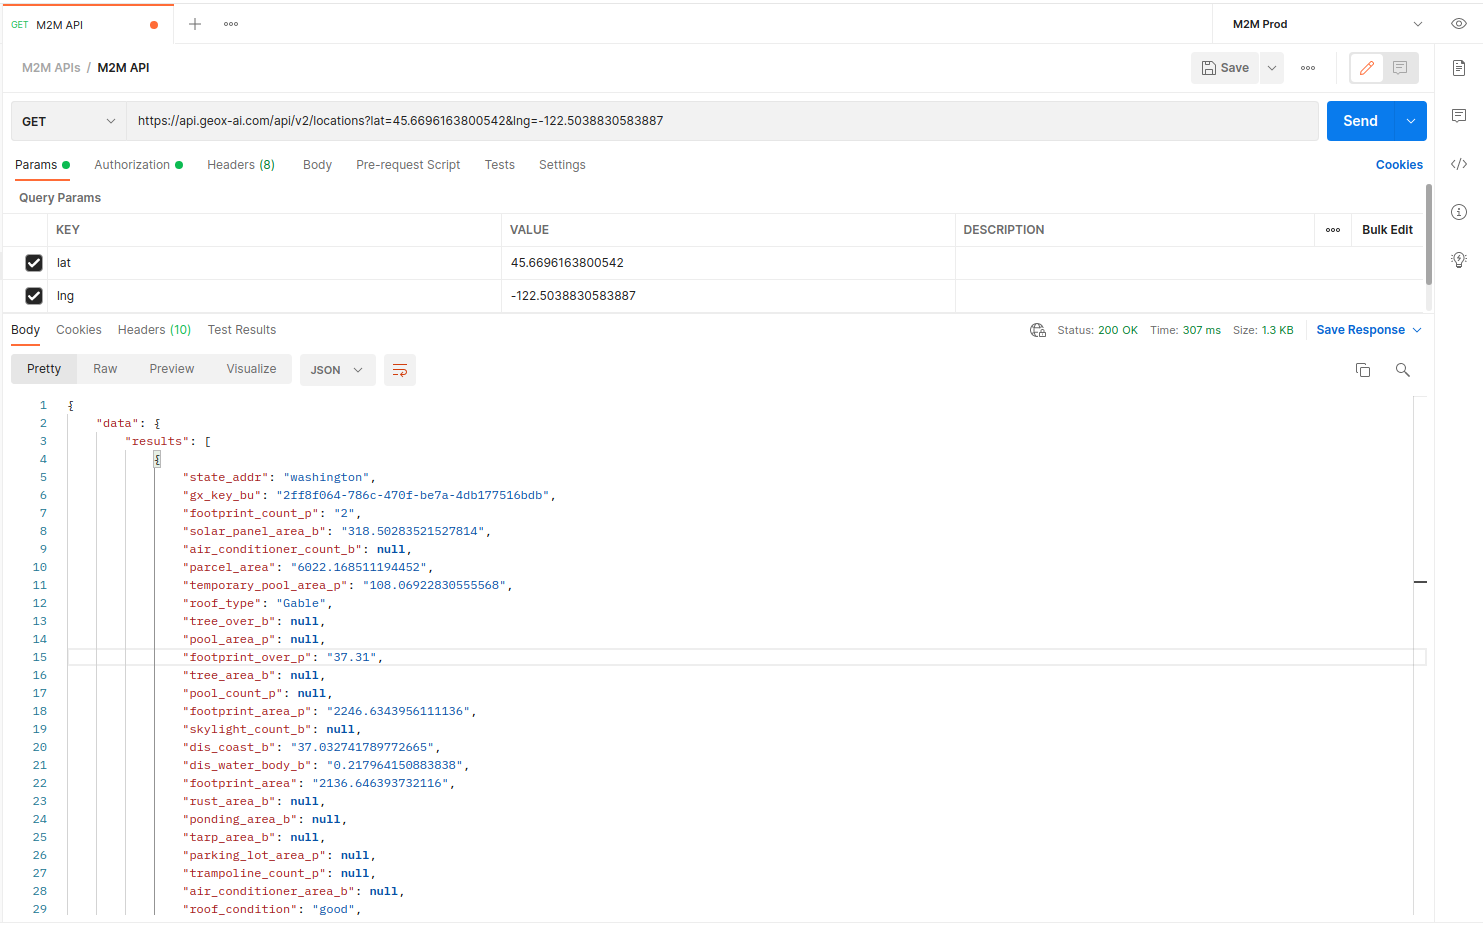
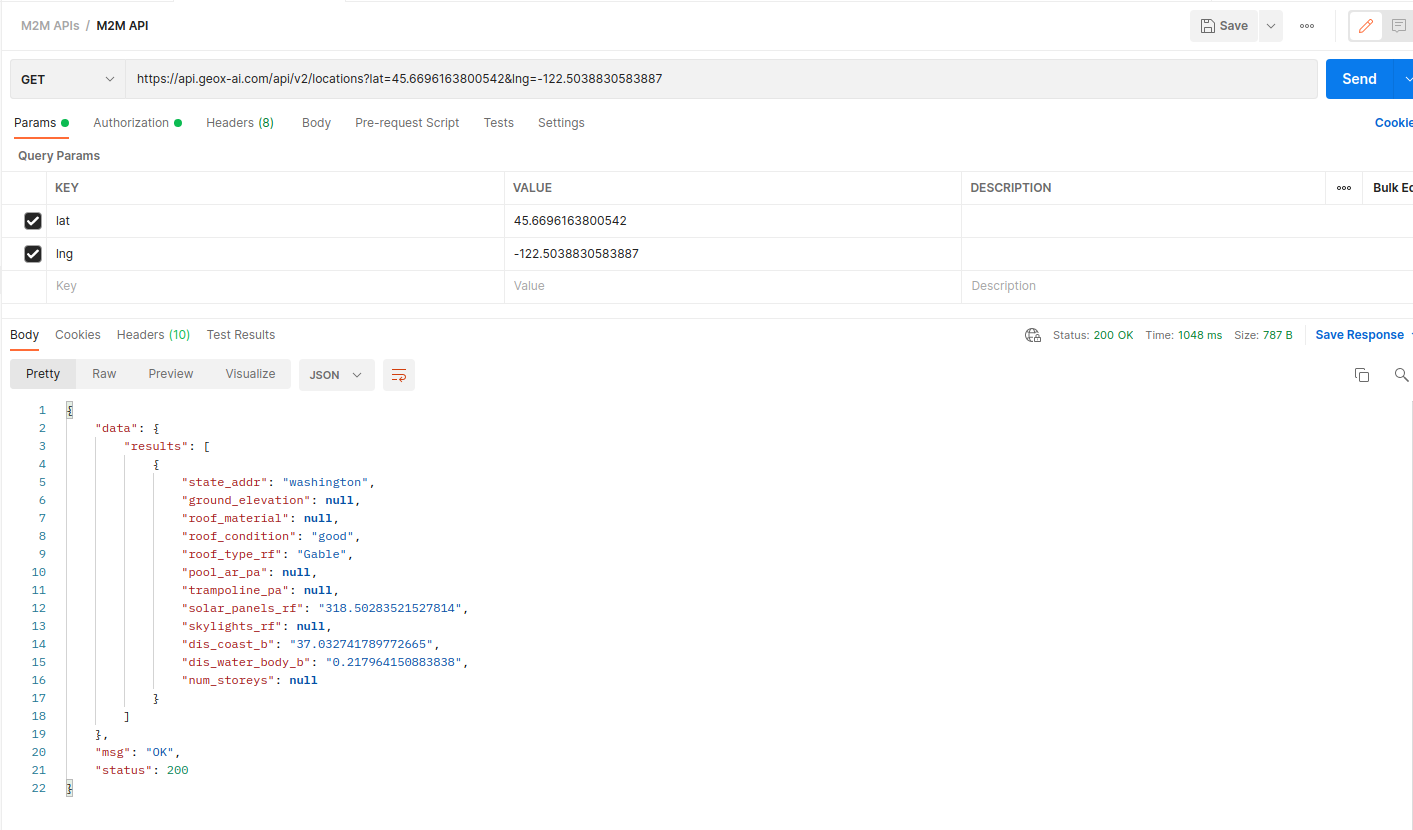
Updated docs

diff --git a/README.md b/README.md
@@ -113,7 +113,7 @@ Here are the sample request and response
 
 ## Request Sample
 ```shell
-https://api.geox-ai.com/poc/api/?lat=32.866004&lng=-96.652901
+https://api.geox-ai.com/api/v2/locations?lat=45.6696163800542&lng=-122.5038830583887
 ```
 
 ## Response Sample
@@ -123,34 +123,17 @@ https://api.geox-ai.com/poc/api/?lat=32.866004&lng=-96.652901
         "results": [
             {
                 "state_addr": "washington",
-                "gx_key_bu": "2ff8f064-786c-470f-be7a-4db177516bdb",
-                "footprint_count_p": "2",
-                "solar_panel_area_b": "318.50283521527814",
-                "air_conditioner_count_b": null,
-                "parcel_area": "6022.168511194452",
-                "temporary_pool_area_p": "108.06922830555568",
-                "roof_type": "Gable",
-                "tree_over_b": null,
-                "pool_area_p": null,
-                "footprint_over_p": "37.31",
-                "tree_area_b": null,
-                "pool_count_p": null,
-                "footprint_area_p": "2246.6343956111136",
-                "skylight_count_b": null,
+                "ground_elevation": null,
+                "roof_material": null,
+                "roof_condition": "good",
+                "roof_type_rf": "Gable",
+                "pool_ar_pa": null,
+                "trampoline_pa": null,
+                "solar_panels_rf": "318.50283521527814",
+                "skylights_rf": null,
                 "dis_coast_b": "37.032741789772665",
                 "dis_water_body_b": "0.217964150883838",
-                "footprint_area": "2136.646393732116",
-                "rust_area_b": null,
-                "ponding_area_b": null,
-                "tarp_area_b": null,
-                "parking_lot_area_p": null,
-                "trampoline_count_p": null,
-                "air_conditioner_area_b": null,
-                "roof_condition": "good",
-                "roof_condition_score": null,
-                "roof_type_score": null,
-                "geom_id_p": "123378.0",
-                "table_name_p": "wa_clark"
+                "num_storeys": null
             }
         ]
     },
